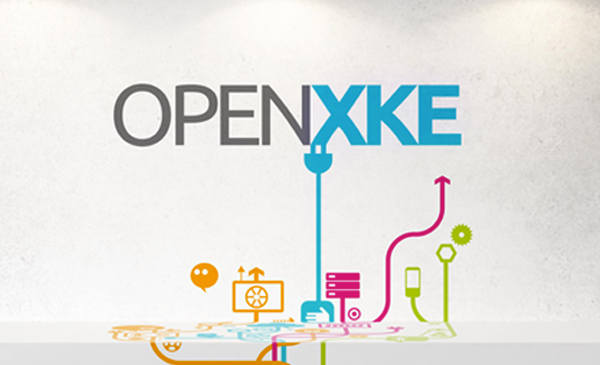
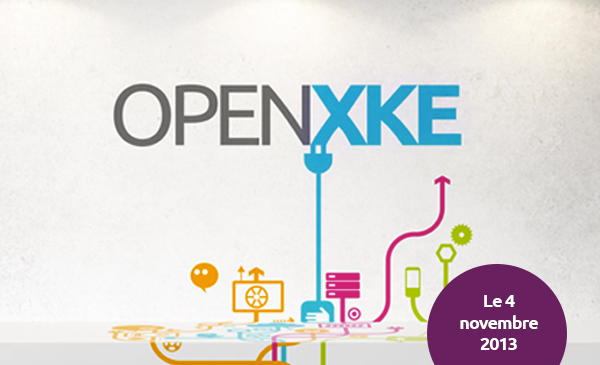
Header Open XKE

Changed region(s): [[0.69, 0.7233, 0.96, 1.0], [0.42, 0.7836, 0.45, 0.8438]]

diff --git a/open-xke/invitation-open-xke-estelle.html b/open-xke/invitation-open-xke-estelle.html
@@ -31,7 +31,7 @@
                          <strong>Votre consultant vous a toujours manqué le jour du XKE ?</strong>
                          </span>
                          </p>
-                         <p>Venez découvrir l'Open XKE le 4 novembre prochain. L'occasion pendant une demi-journée de vous immerger totalement dans cette tradition de partage de connaissance. Vous pourrez choisir parmi quinze présentations triées sur le volet afin de découvrir, d'approfondir et de partager avec Xebia vos connaissances !</p>
+                         <p>Venez découvrir l'Open XKE <span style="font-weight:bold; color:#6a205b">le 4 novembre prochain</span>. L'occasion pendant une demi-journée de vous immerger totalement dans cette tradition de partage de connaissance. Vous pourrez choisir parmi quinze présentations triées sur le volet afin de découvrir, d'approfondir et de partager avec Xebia vos connaissances !</p>
                           <p><a href="http://open-xke.xebia.fr/">En savoir plus</a></p>
                           <a href="http://www.eventbrite.fr/event/8451774485/mcivte" target="_self">S'inscrire sur Eventbrite</a>
                           <p style="color:#6a205b; padding: 0px 0px 0px 0px; margin: 20px 0px 0px 0px;">Estelle Boyer</p>
